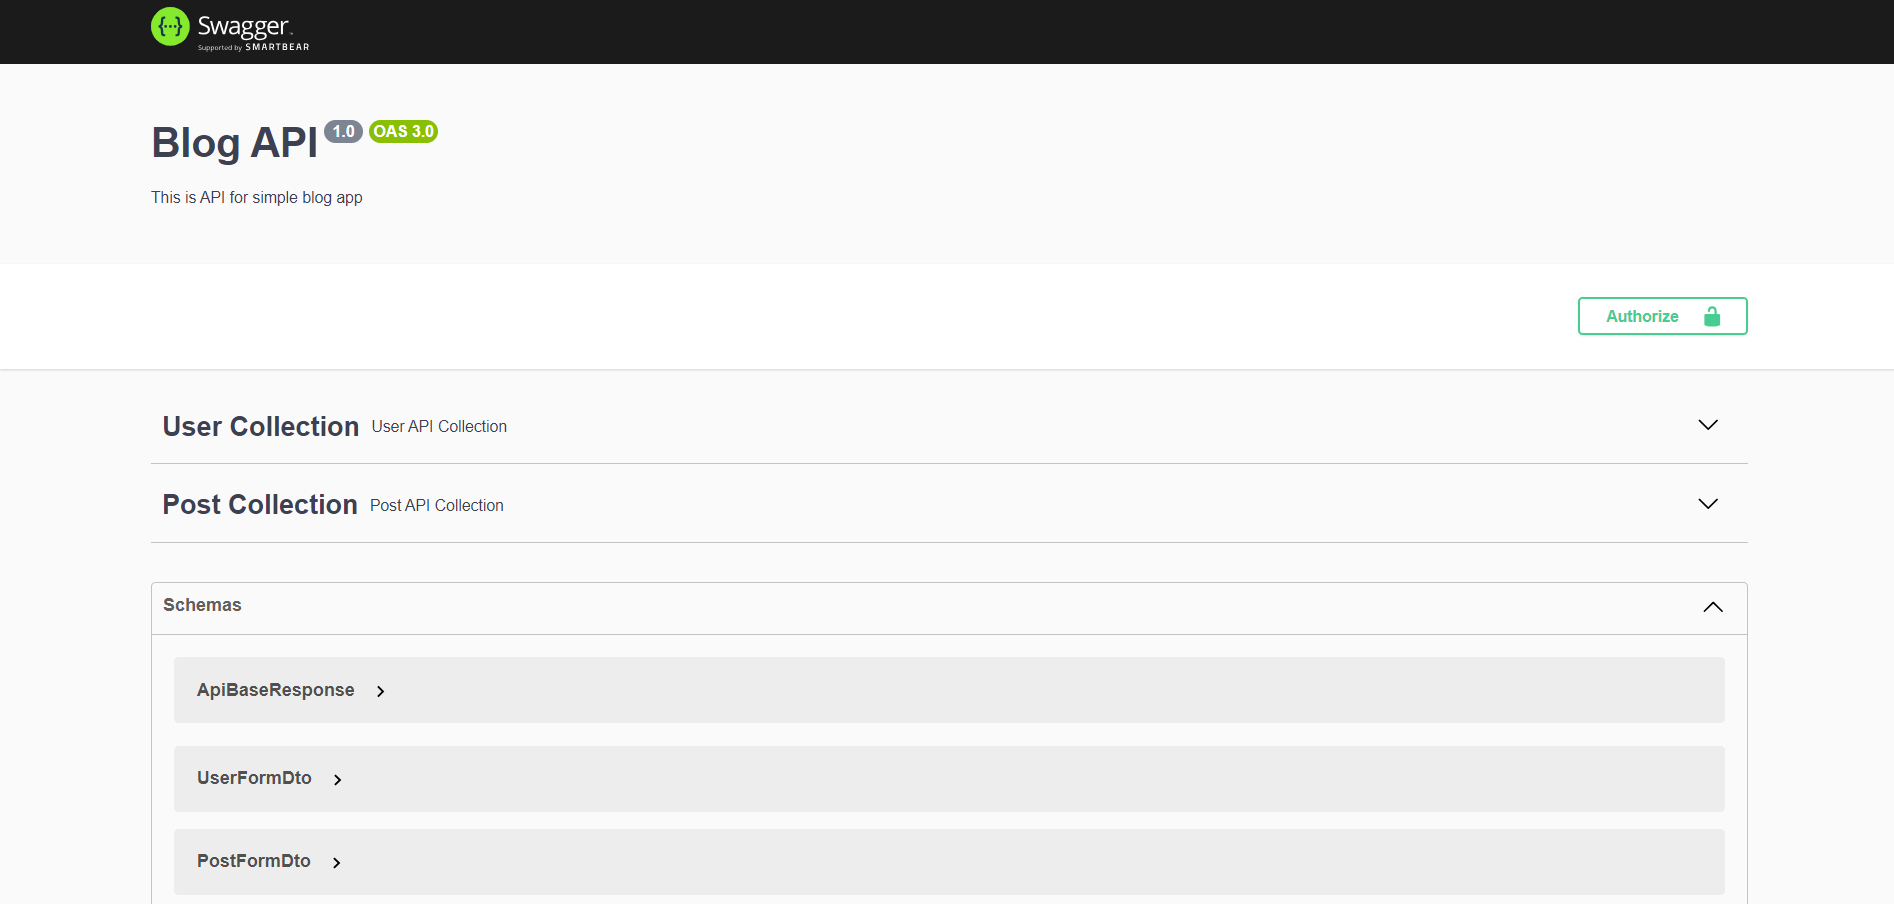
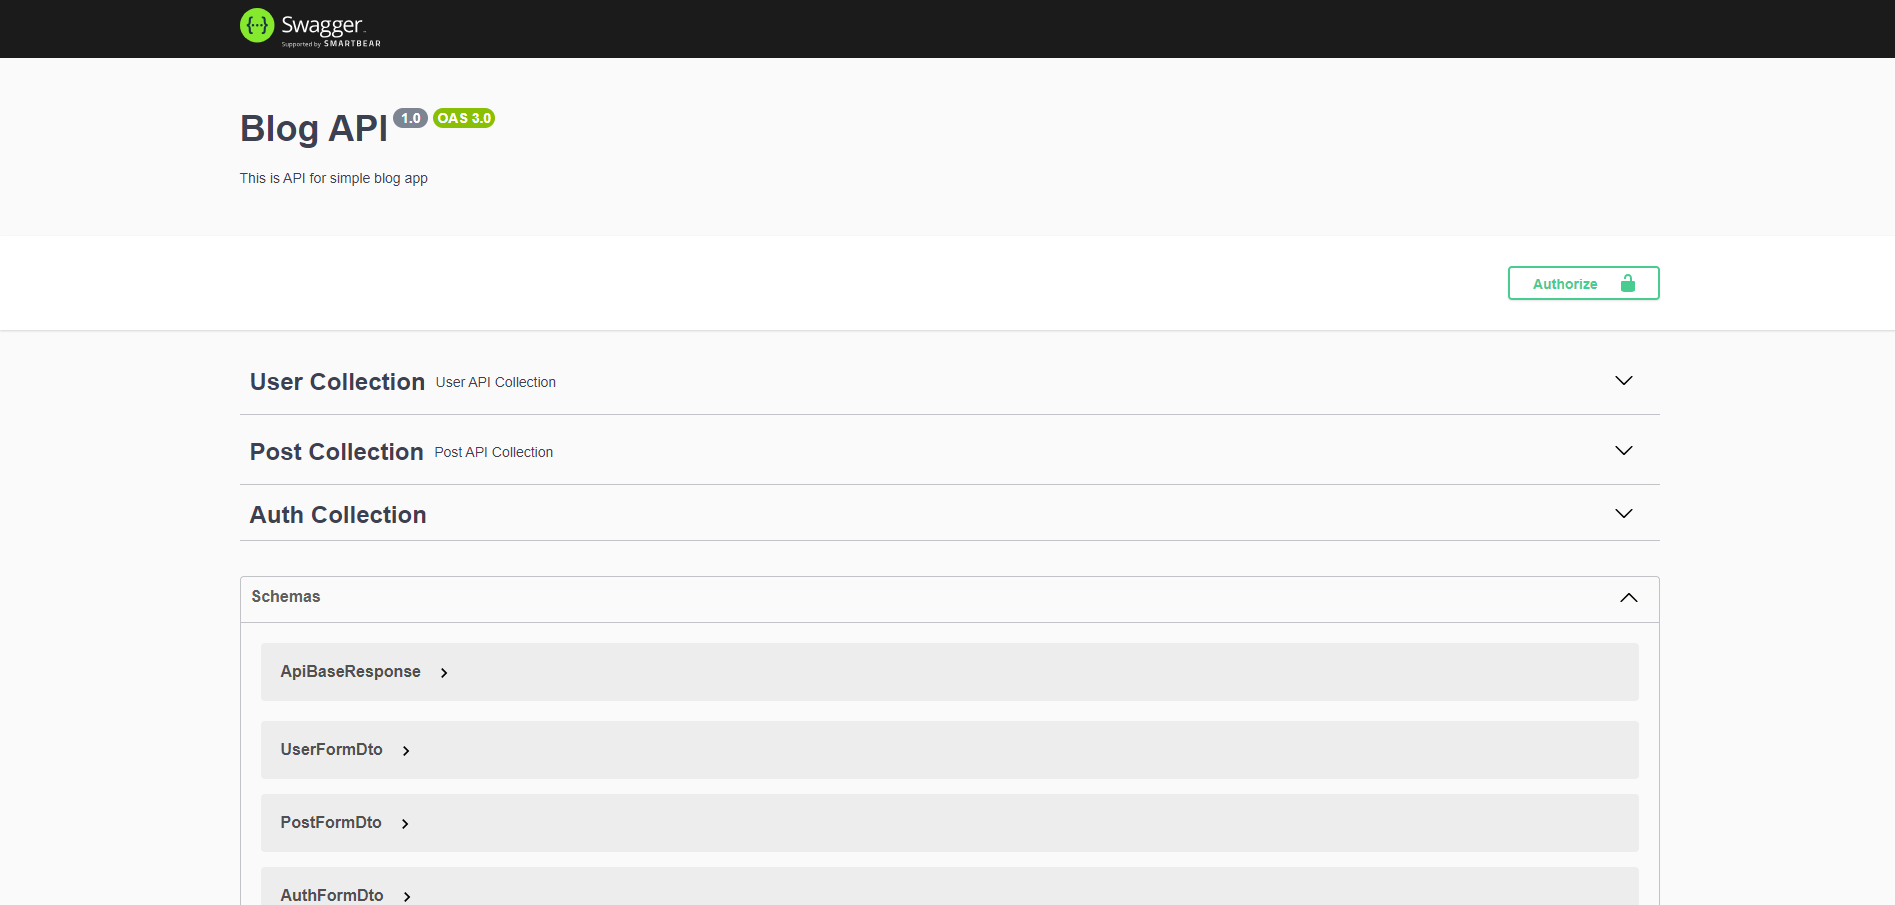
Add JWT Authentication

diff --git a/README.md b/README.md
@@ -12,6 +12,11 @@
 A simple application for post management, built using the TypeScript, Nest.js framework, PostgreSQL database, and Prisma ORM.
 
 
+## Requirements
+
+Node.js version 20.15.1 or >
+
+
 ## Project setup
 
 ```bash
@@ -78,6 +83,12 @@ methods (GET, POST, PUT, PATCH, DELETE). All endpoints are secured using Bearer 
 
 <p align="center">
   <a href="" target="blank"><img src="/img/swagger-03.png" width="100%" alt="Swagger-03 Image" /></a>
+</p>
+
+### Contains of Auth Collection
+
+<p align="center">
+  <a href="" target="blank"><img src="/img/swagger-04.png" width="100%" alt="Swagger-04 Image" /></a>
 </p>
 
 
